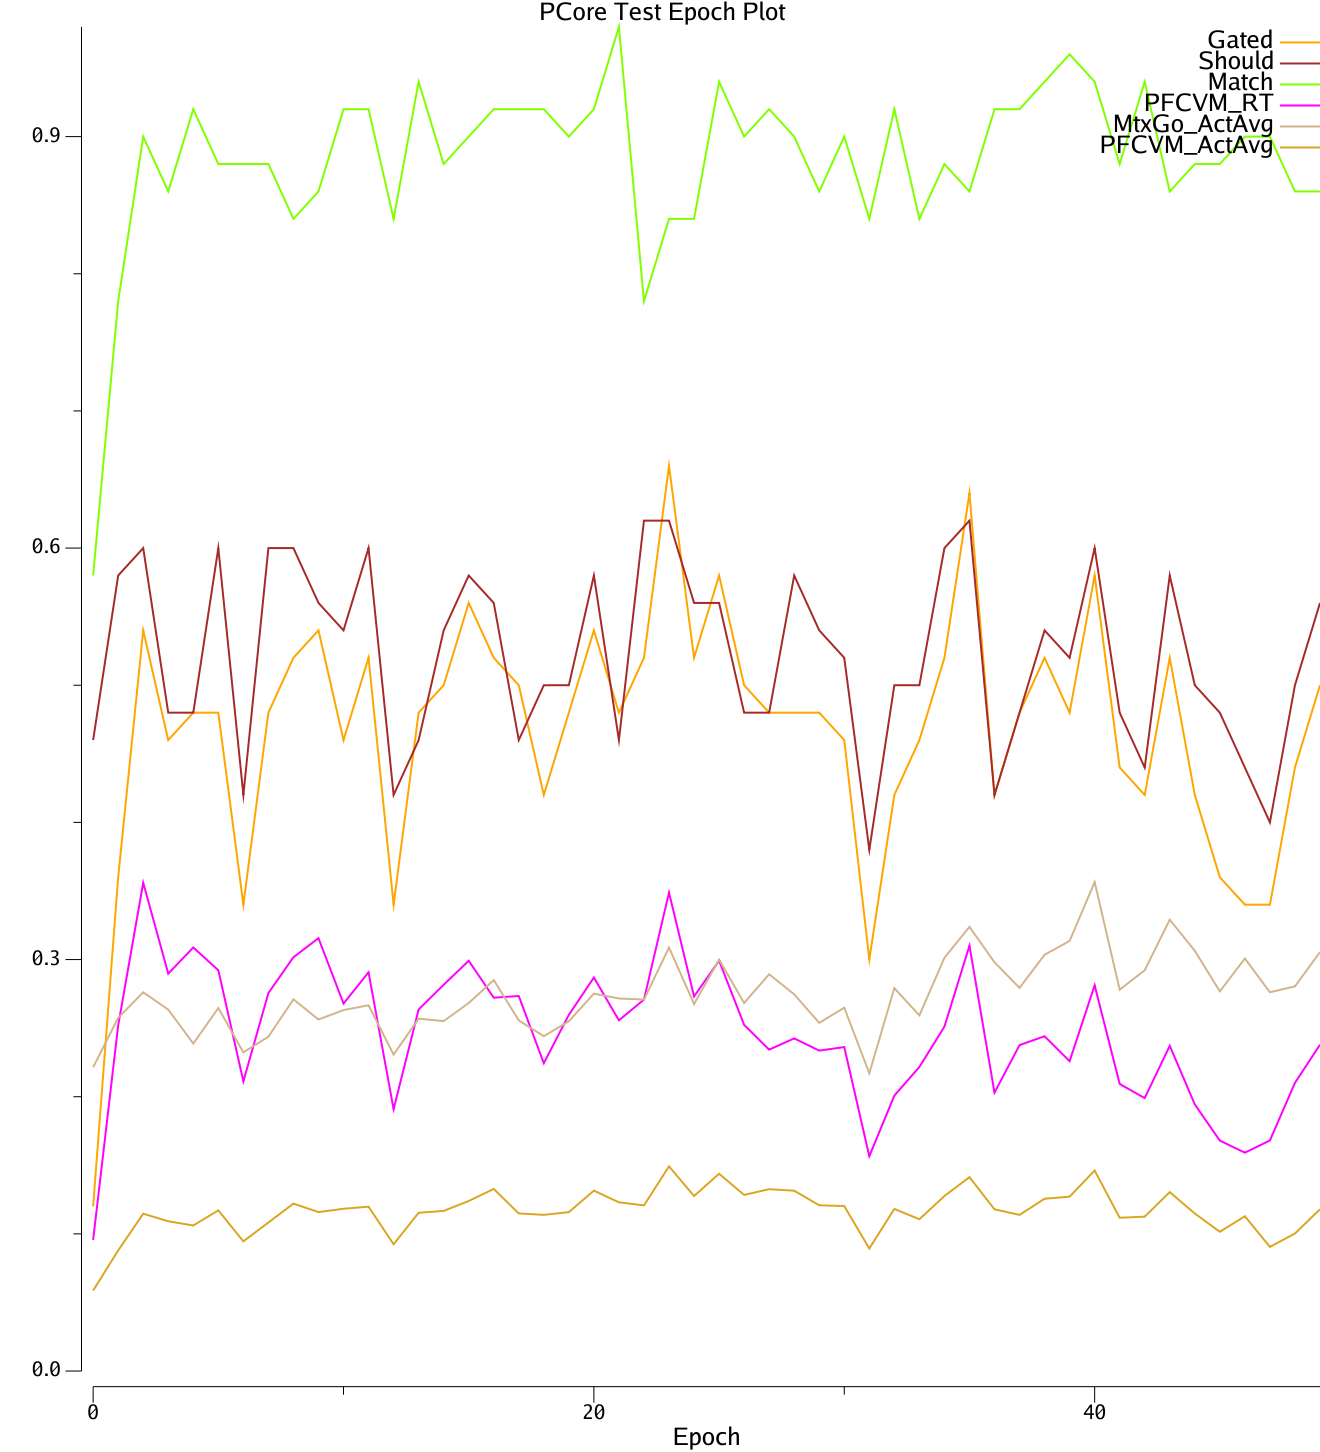
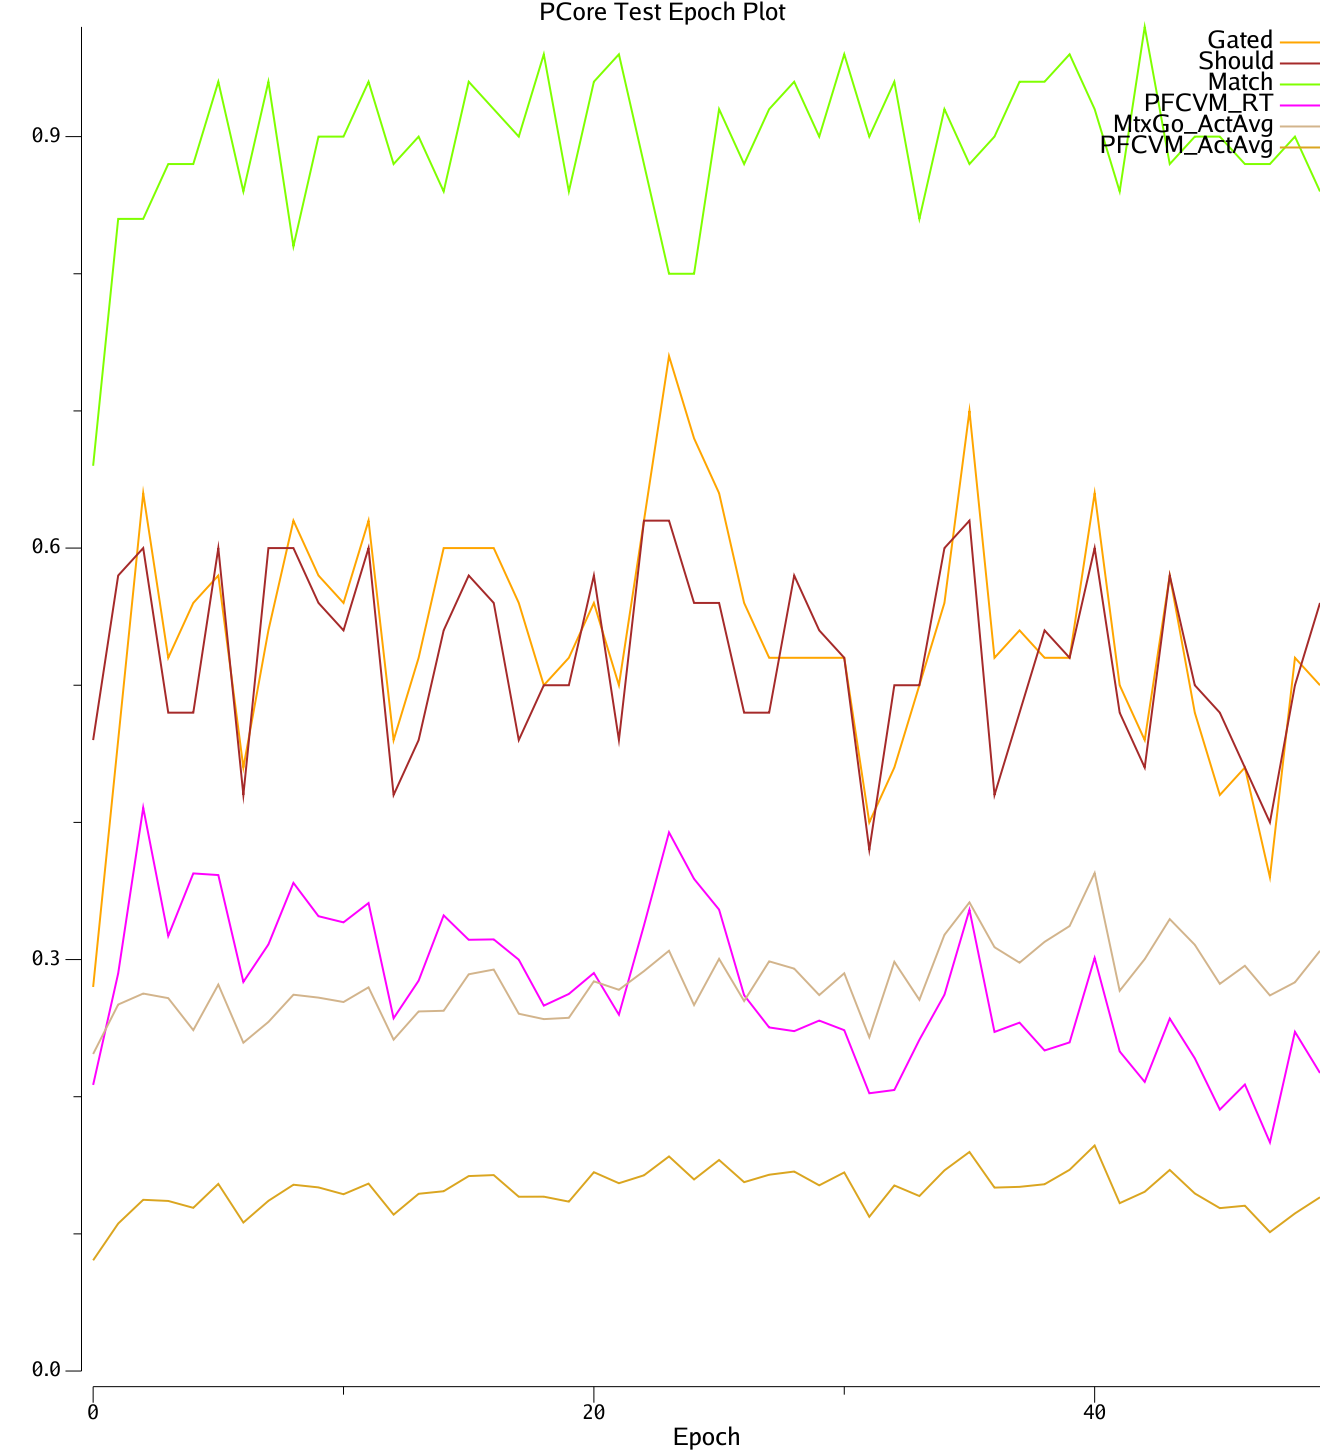
pcore and pvlv using same default params -- tested and tuned BG params -- using simpler mostly 1 defaults, working best ever on pcore test.

diff --git a/examples/pcore/params.go b/examples/pcore/params.go
@@ -21,7 +21,7 @@ var ParamSets = params.Sets{
 				}},
 			{Sel: ".PTMaintLayer", Desc: "time integration params",
 				Params: params.Params{
-					"Layer.Act.Dend.ModGain": "10", // key gating efficacy param
+					"Layer.Act.Dend.ModGain": "10", // 10 > 1 -- key gating efficacy param
 				}},
 			////////////////////////////////////////////
 			// Prjns
@@ -37,15 +37,7 @@ var ParamSets = params.Sets{
 				}},
 			{Sel: ".SuperToPT", Desc: "one-to-one from super -- just use fixed nonlearning prjn so can control behavior easily",
 				Params: params.Params{
-					"Prjn.PrjnScale.Abs": "0.01", // key gating efficacy param
-				}},
-			{Sel: "#MtxGoToGPeOut", Desc: "This is key driver of Go threshold, along with to GPi",
-				Params: params.Params{
-					"Prjn.PrjnScale.Abs": "0.5",
-				}},
-			{Sel: "#MtxGoToGPi", Desc: "go influence on gating -- slightly weaker than integrated GPeIn",
-				Params: params.Params{
-					"Prjn.PrjnScale.Abs": "0.8", // works over wide range: 0.5 - 1 -- learning controls
+					"Prjn.PrjnScale.Abs": "0.1", // key gating efficacy param
 				}},
 		}},
 	},
@@ -329,11 +321,11 @@ var ParamSetsDefs = params.Sets{
 				}},
 			{Sel: "#GPeOutToGPeIn", Desc: "just enough to (dis)inhibit GPeIn",
 				Params: params.Params{
-					"Prjn.PrjnScale.Abs": "0.3", // 0.5 def
+					"Prjn.PrjnScale.Abs": "0.5", // 0.5 def, was 0.3 -- no dif really
 				}},
 			{Sel: "#GPeInToSTNp", Desc: "not very relevant -- pause knocks out anyway -- if too much higher than this, causes oscillations.",
 				Params: params.Params{
-					"Prjn.PrjnScale.Abs": "0.1",
+					"Prjn.PrjnScale.Abs": "0.1", // not big diff
 				}},
 			// {Sel: "#GPeInToSTNs", Desc: "NOT currently used -- interferes with threshold-based Ca self-inhib dynamics",
 			// 	Params: params.Params{
@@ -357,15 +349,15 @@ var ParamSetsDefs = params.Sets{
 				}},
 			{Sel: "#GPeInToGPeTA", Desc: "just enough to knock down in baseline state",
 				Params: params.Params{
-					"Prjn.PrjnScale.Abs": "0.7", // was .9
+					"Prjn.PrjnScale.Abs": "1", // was .7 then .9 -- 1 better match
 				}},
 			{Sel: "#MtxGoToGPeOut", Desc: "This is key driver of Go threshold, along with to GPi",
 				Params: params.Params{
-					"Prjn.PrjnScale.Abs": "0.5",
+					"Prjn.PrjnScale.Abs": "1", // 1 gives better match
 				}},
 			{Sel: "#MtxGoToGPi", Desc: "go influence on gating -- slightly weaker than integrated GPeIn",
 				Params: params.Params{
-					"Prjn.PrjnScale.Abs": "0.8", // works over wide range: 0.5 - 1 -- learning controls
+					"Prjn.PrjnScale.Abs": "1", // was 0.8, 1 is fine
 				}},
 			{Sel: "#GPeInToGPi", Desc: "nogo influence on gating -- decreasing produces more graded function of Go",
 				Params: params.Params{
@@ -373,7 +365,7 @@ var ParamSetsDefs = params.Sets{
 				}},
 			{Sel: "#STNsToGPi", Desc: "keeps GPi active until GPeIn signal has been integrated a bit -- hold-your-horses",
 				Params: params.Params{
-					"Prjn.PrjnScale.Abs": ".3", // .3 is effective in blocking GPI
+					"Prjn.PrjnScale.Abs": ".5", // .5 > .3 for RT, spurious gating
 				}},
 			{Sel: "#STNpToGPi", Desc: "strong initial phasic activation",
 				Params: params.Params{

diff --git a/axon/pcore_layers.go b/axon/pcore_layers.go
@@ -260,7 +260,7 @@ func (ly *Layer) GPDefaults() {
 		pj.Params.SWt.Init.Mean = 0.75
 		pj.Params.SWt.Init.Var = 0.25
 		if pj.Send.LayerType() == MatrixLayer {
-			pj.Params.PrjnScale.Abs = 0.5
+			pj.Params.PrjnScale.Abs = 1 // MtxGoToGPeOut
 		} else if pj.Send.LayerType() == STNLayer {
 			pj.Params.PrjnScale.Abs = 1 // STNpToGPTA -- default level for GPeOut and GPeTA -- weaker to not oppose GPeIn surge
 		}
@@ -269,7 +269,7 @@ func (ly *Layer) GPDefaults() {
 			if pj.Send.LayerType() == MatrixLayer { // MtxNoToGPeIn -- primary NoGo pathway
 				pj.Params.PrjnScale.Abs = 1
 			} else if pj.Send.LayerType() == GPLayer { // GPeOutToGPeIn
-				pj.Params.PrjnScale.Abs = 0.3 // was 0.5
+				pj.Params.PrjnScale.Abs = 0.5 // had 0.3 at some point
 			}
 			if pj.Send.LayerType() == STNLayer { // STNpToGPeIn -- stronger to drive burst of activity
 				pj.Params.PrjnScale.Abs = 1 // was 0.5
@@ -280,7 +280,7 @@ func (ly *Layer) GPDefaults() {
 			}
 		case GPeTA:
 			if pj.Send.LayerType() == GPLayer { // GPeInToGPeTA
-				pj.Params.PrjnScale.Abs = 0.7 // was 0.9 -- just enough to knock down to near-zero at baseline
+				pj.Params.PrjnScale.Abs = 1 // was 0.7 orig 0.9 -- just enough to knock down to near-zero at baseline
 			}
 		}
 	}
@@ -299,13 +299,13 @@ func (ly *Layer) GPiDefaults() {
 		pj.Params.SWt.Init.Mean = 0.75
 		pj.Params.SWt.Init.Var = 0.25
 		if pj.Send.LayerType() == MatrixLayer { // MtxGoToGPi
-			pj.Params.PrjnScale.Abs = 0.8 // slightly weaker than GPeIn
+			pj.Params.PrjnScale.Abs = 1 // 1 is fine
 		} else if pj.Send.LayerType() == GPLayer { // GPeInToGPi
 			pj.Params.PrjnScale.Abs = 1 // stronger because integrated signal, also act can be weaker
 		} else if strings.HasSuffix(pj.Send.Name(), "STNp") { // STNpToGPi
 			pj.Params.PrjnScale.Abs = 1
 		} else if strings.HasSuffix(pj.Send.Name(), "STNs") { // STNsToGPi
-			pj.Params.PrjnScale.Abs = 0.3
+			pj.Params.PrjnScale.Abs = 0.5 // 0.5 slightly better than .3
 		}
 	}
 }
